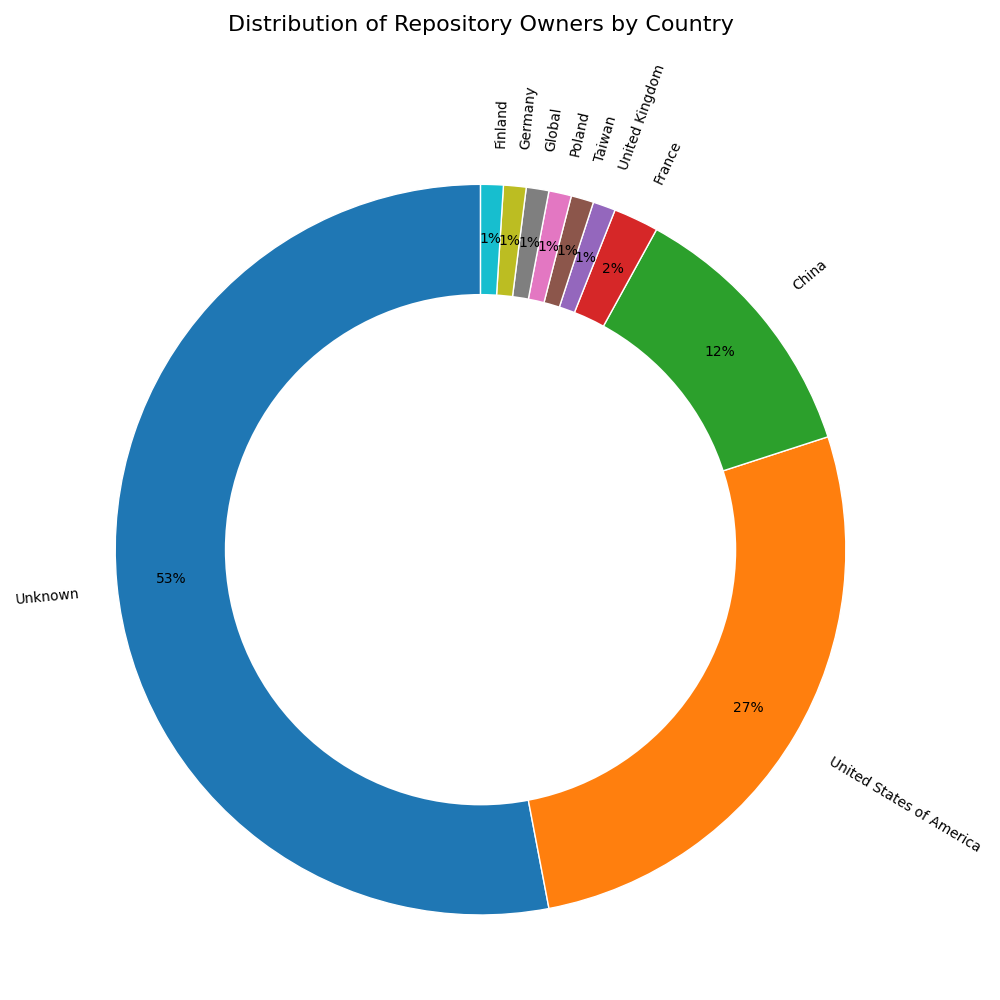
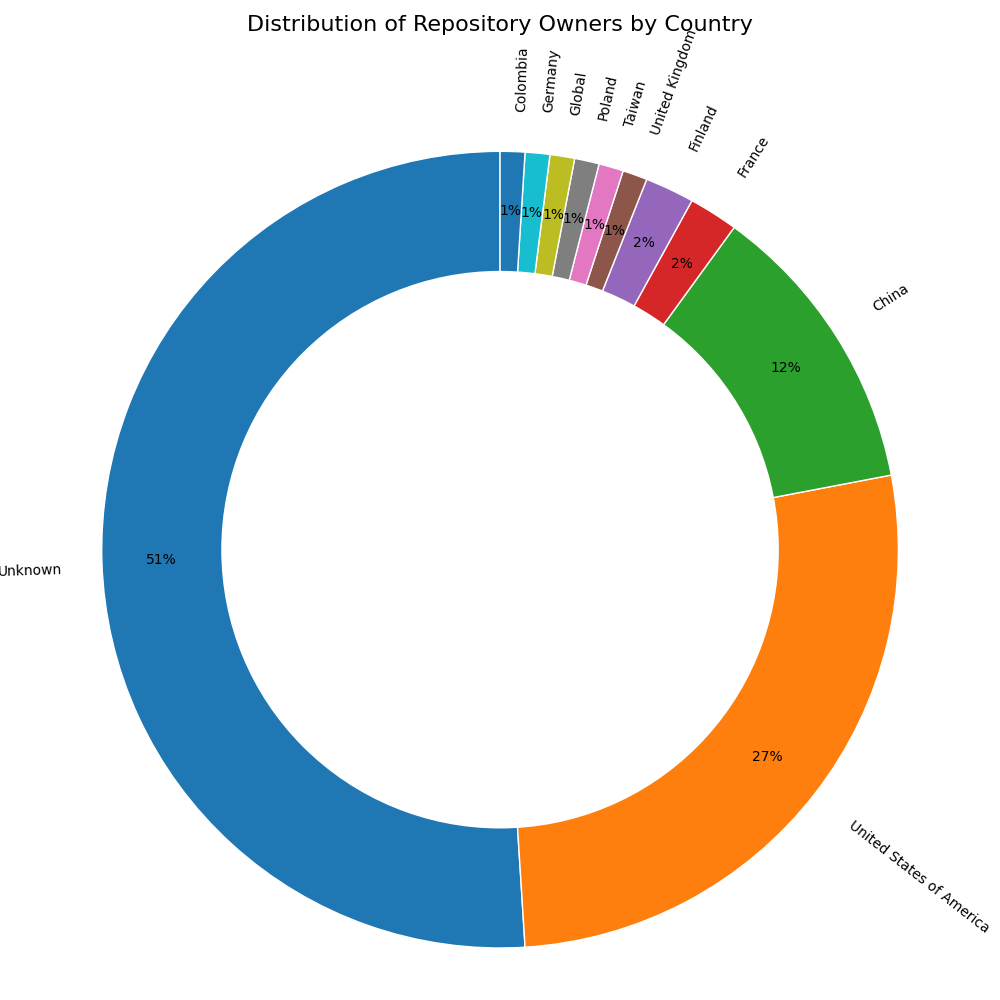
added_pie

diff --git a/README.md b/README.md
@@ -102,8 +102,8 @@
 | 95 | [Web-Dev-For-Beginners](https://github.com/microsoft/Web-Dev-For-Beginners) | 94993 | 15006 | JavaScript | 34 | 24 Lessons, 12 Weeks, Get Started as a Web Developer | 2026-01-08T21:09:38Z | Org | United States of America |
 | 96 | [v2rayN](https://github.com/2dust/v2rayN) | 94442 | 14016 | C# | 7 | A GUI client for Windows, Linux and macOS, support Xray and sing-box and others | 2026-01-10T07:28:58Z | User | Unknown |
 | 97 | [clean-code-javascript](https://github.com/ryanmcdermott/clean-code-javascript) | 94239 | 12510 | JavaScript | 80 | Clean Code concepts adapted for JavaScript | 2024-07-29T07:24:37Z | User | Unknown |
-| 98 | [fastapi](https://github.com/fastapi/fastapi) | 94017 | 8513 | Python | 29 | FastAPI framework, high performance, easy to learn, fast to code, ready for production | 2026-01-12T10:13:31Z | Org | Unknown |
-| 99 | [java-design-patterns](https://github.com/iluwatar/java-design-patterns) | 93612 | 27368 | Java | 142 | Design patterns implemented in Java | 2025-10-21T21:30:34Z | User | Unknown |
+| 98 | [fastapi](https://github.com/fastapi/fastapi) | 94017 | 8513 | Python | 29 | FastAPI framework, high performance, easy to learn, fast to code, ready for production | 2026-01-12T10:13:31Z | Org | Colombia |
+| 99 | [java-design-patterns](https://github.com/iluwatar/java-design-patterns) | 93612 | 27368 | Java | 142 | Design patterns implemented in Java | 2025-10-21T21:30:34Z | User | Finland |
 | 100 | [puppeteer](https://github.com/puppeteer/puppeteer) | 93270 | 9361 | TypeScript | 273 | JavaScript API for Chrome and Firefox | 2026-01-12T15:19:50Z | Org | United States of America |
 
 
